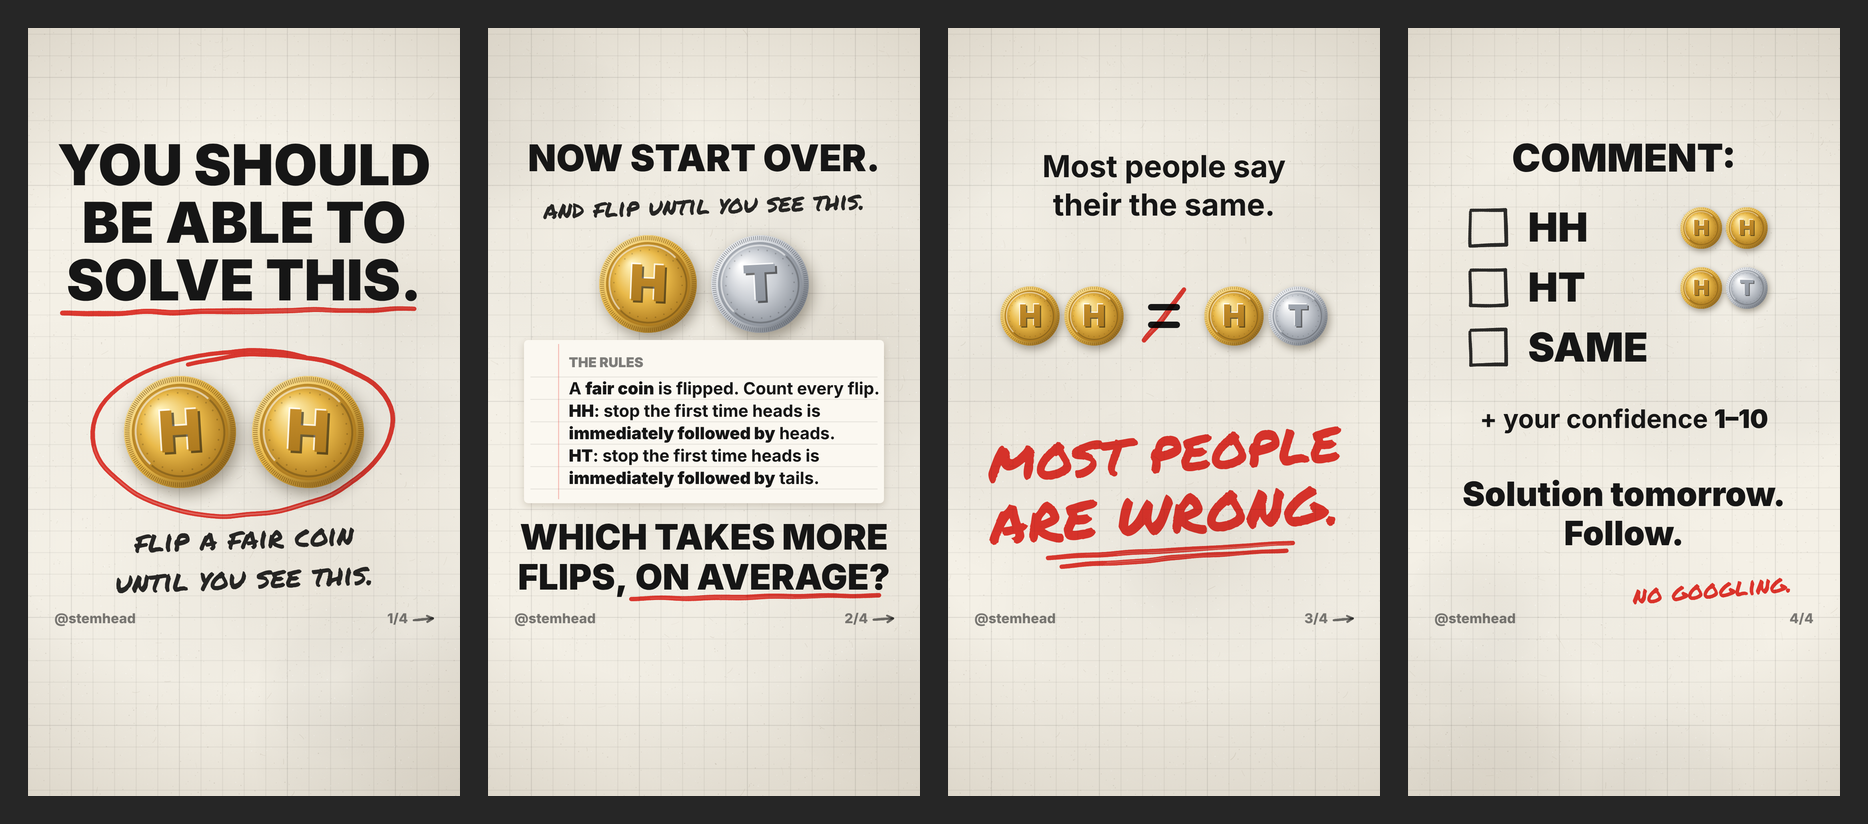
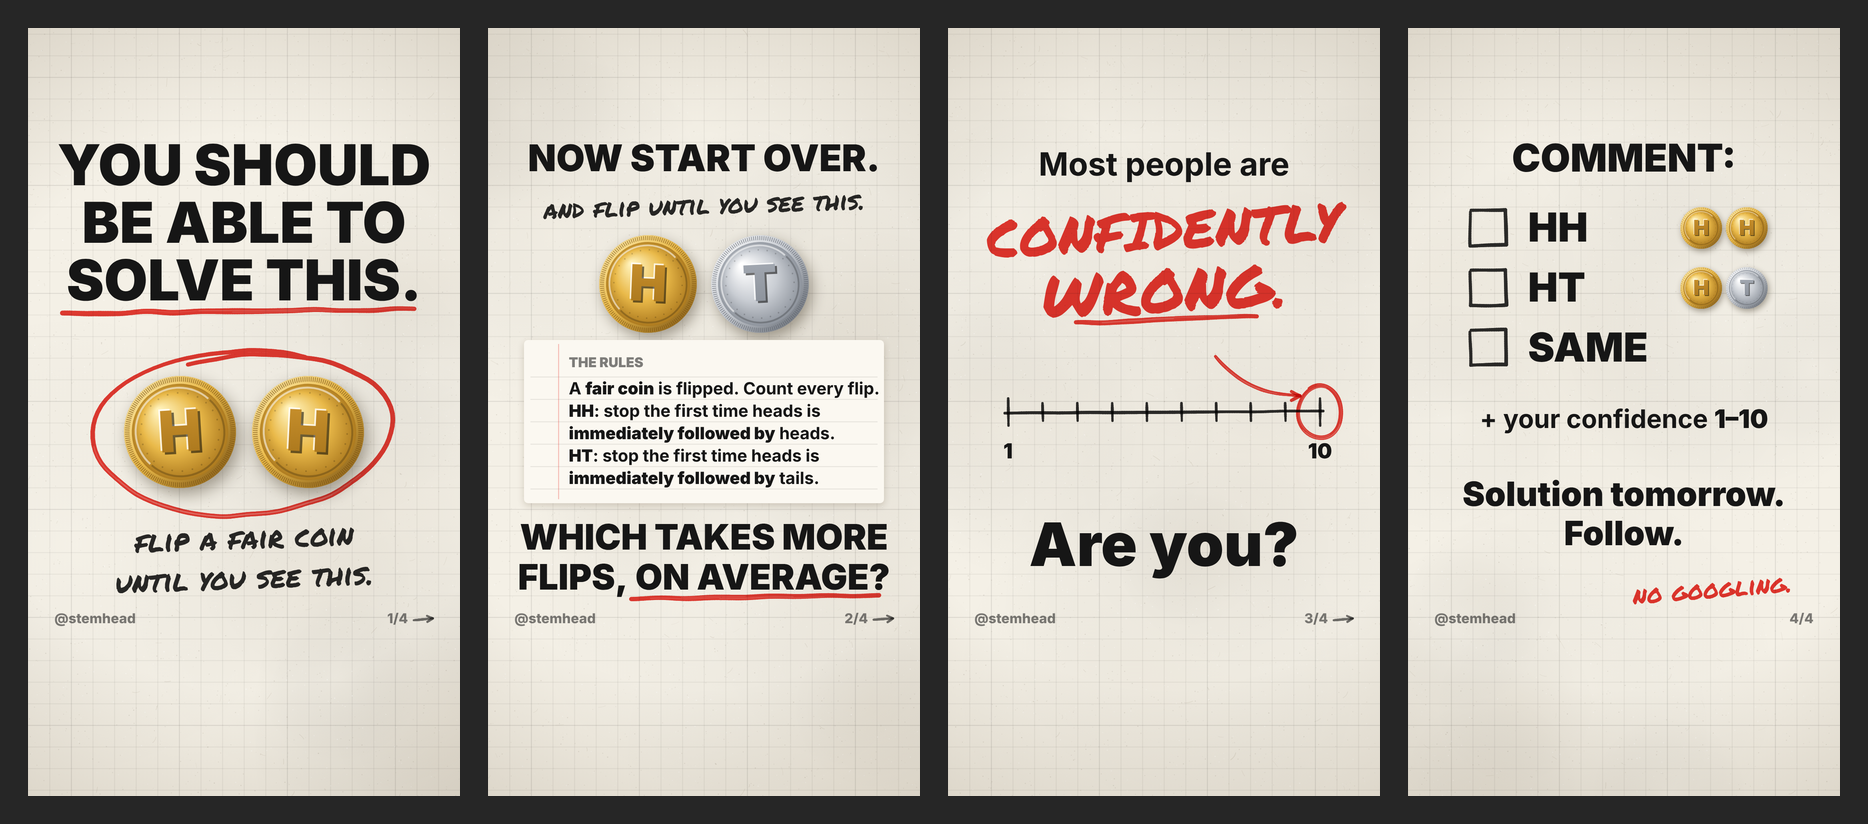
Carousels: slide 3 no longer leaks the answer
"Most people say their the same / MOST PEOPLE ARE WRONG" (and the
crossed-out 99% in c003) ruled an option out. Slide 3 of c001 and c003 is
now "Most people are CONFIDENTLY WRONG. Are you?" over a 1-10 confidence
scale circled at 10 (new confidenceScale helper). The deliberate typo lived
in the leaking sentence and is dropped. render_panels.py now fails fast
when panels.js throws.

Claude-Session: https://claude.ai/code/session_01KYac268TKxLTPpFwzuGvSF

Changed region(s): [[0.5278, 0.182, 0.7452, 0.4248], [0.5278, 0.4551, 0.7141, 0.6978]]

diff --git a/carousels/c001-coin-flips/panels.js b/carousels/c001-coin-flips/panels.js
@@ -47,17 +47,14 @@ function p2(){
 }
 
 function p3(){
-  ink('Most people say', CX, 350, {size:76, weight:700});
-  ink('their the same.', CX, 446, {size:76, weight:700});
-  // HH = HT, with the equals sign struck out
-  const y = 720, r = 74;
-  coin(205, y, r, 'H'); coin(365, y, r, 'H');
-  coin(715, y, r, 'H'); coin(875, y, r, 'T');
-  ctx.save(); ctx.fillStyle = PAPER.ink; rr(500, y-30, 80, 16, 8); ctx.fill(); rr(500, y+14, 80, 16, 8); ctx.fill(); ctx.restore();
-  markerLine(492, y+62, 590, y-66, {width:14});
-  markerText('MOST PEOPLE', CX, 1060, {size:124, rot:-0.06});
-  markerText('ARE WRONG.', CX, 1210, {size:136, rot:-0.06});
-  markerUnderline(260, 850, 1320, {width:13, slope:-34, double:true});
+  // never name an answer here: anything that rules one out leaks the solution
+  ink('Most people are', CX, 345, {size:80, weight:700});
+  markerText('CONFIDENTLY', CX, 500, {size:132, rot:-0.05});
+  markerText('WRONG.', CX, 650, {size:150, rot:-0.05});
+  markerUnderline(330, 760, 735, {width:13, slope:-14});
+  const xs = confidenceScale(150, 930, 960);
+  markerArrow(xs[9] - 260, 820, xs[9] - 50, 920, {bend:-0.25, width:9, head:24});
+  const w = ink('Are you?', CX, 1300, {size:150, weight:900});
 }
 
 function p4(){
@@ -83,17 +80,17 @@ window.PANELS = {
     hashtags: ['#math', '#probability', '#puzzle', '#brainteaser', '#sciencetok', '#youshouldbeabletosolvethis'],
     pinned: 'Solution tomorrow. No googling. Drop HH, HT or SAME and your confidence 1–10.',
     sound_note: 'Trending sound at low volume, no lyrics over the first 3 s (the hook is read, not heard).',
-    typos: [{panel: 3, text: 'their the'}],     // deliberate: "Most people say their the same."
+    typos: [],
     spell_ok: ['googling'],
     required_phrases: ['fair coin', 'immediately followed by', 'on average', 'start over', 'count every flip'],
     sim_on_panels: [],
     allow_blue: false,
-    extra: [["note on the typo", "\"their the same\" on panel 3 is deliberate. Do not correct it in replies; let the correction crowd comment."], ["truth check", "The answer (HH 6 flips, HT 4) is verified by sim.py next to panels.js and by carousels/c002-coin-flips-answer/sim.py."]],
+    extra: [["truth check", "The answer (HH 6 flips, HT 4) is verified by sim.py next to panels.js and by carousels/c002-coin-flips-answer/sim.py."]],
     review: {
       thumbnail: 'viewed out/thumb.png at 135x240: the 3-line headline reads clearly, the two gold H coins read as coins, the marker line is secondary; nothing competes.',
-      accent: 'red only on the headline underline, the target circle, the struck-out equals sign, MOST PEOPLE ARE WRONG and no googling. No blue.',
+      accent: 'red only on the headline underline, the target circle, CONFIDENTLY WRONG + its underline, the circle and arrow on 10 of the confidence scale, no googling. No blue.',
       statement: 'p1 + p2 card: fair coin, count every flip, stop the first time heads is immediately followed by heads (HH) / tails (HT), start over between games, on average. One reading only.',
-      flow: 'p1 half a puzzle (HH) -> p2 the other half + the question -> p3 the reversal without the answer -> p4 one-word comment + promise. Every panel but the last ends unresolved; counter carries a swipe arrow.',
+      flow: 'p1 half a puzzle (HH) -> p2 the other half + the question -> p3 "most people are confidently wrong.. are you?" with a 1-10 scale circled at 10 (names no answer, rules none out) -> p4 one-word comment + promise. Every panel but the last ends unresolved; counter carries a swipe arrow.',
       overlays: 'helpers.js refactor: overlays for 001-005 rendered at every 15th frame before and after (418 frames, same fake timeline.json since Kokoro is not installed here): 0 pixels differ.',
     },
   },

diff --git a/carousels/c003-base-rate/panels.js b/carousels/c003-base-rate/panels.js
@@ -45,13 +45,14 @@ function p2(){
 }
 
 function p3(){
-  ink('Most people say', CX, 350, {size:76, weight:700});
-  ink('its 99%.', CX, 446, {size:76, weight:700});
-  ink('99%', CX, 740, {size:230, weight:900});
-  markerCross(CX, 730, 190, {width:16});
-  markerText('MOST PEOPLE', CX, 1060, {size:124, rot:-0.06});
-  markerText('ARE WRONG.', CX, 1210, {size:136, rot:-0.06});
-  markerUnderline(260, 850, 1320, {width:13, slope:-34, double:true});
+  // never name an answer here: anything that rules one out leaks the solution
+  ink('Most people are', CX, 345, {size:80, weight:700});
+  markerText('CONFIDENTLY', CX, 500, {size:132, rot:-0.05});
+  markerText('WRONG.', CX, 650, {size:150, rot:-0.05});
+  markerUnderline(330, 760, 735, {width:13, slope:-14});
+  const xs = confidenceScale(150, 930, 960);
+  markerArrow(xs[9] - 260, 820, xs[9] - 50, 920, {bend:-0.25, width:9, head:24});
+  const w = ink('Are you?', CX, 1300, {size:150, weight:900});
 }
 
 function p4(){
@@ -75,17 +76,17 @@ window.PANELS = {
     hashtags: ['#math', '#probability', '#puzzle', '#brainteaser', '#sciencetok', '#youshouldbeabletosolvethis'],
     pinned: 'Solution tomorrow. No googling. Drop 99%, 50% or 1% and your confidence 1–10.',
     sound_note: 'Trending sound at low volume, no lyrics over the first 3 s.',
-    typos: [{panel: 3, text: 'its 9'}],        // deliberate: "Most people say its 99%."
+    typos: [],
     spell_ok: ['googling'],
     required_phrases: ['1 in 10,000', '99% accurate', '99% of people who have it', "99% of people who don't", 'tested at random', 'test positive'],
     sim_on_panels: [],
     allow_blue: false,
-    extra: [["note on the typo", "\"its 99%\" on panel 3 is deliberate (it's). Do not correct it in replies."], ["truth check", "Answer: about 1% (0.98%). Per 1,000,000 people tested: 100 have it, 99 test positive; 999,900 don't, 9,999 of them test positive anyway. 99 / (99 + 9,999) = 0.98%. sim.py simulates 100,000,000 people."]],
+    extra: [["truth check", "Answer: about 1% (0.98%). Per 1,000,000 people tested: 100 have it, 99 test positive; 999,900 don't, 9,999 of them test positive anyway. 99 / (99 + 9,999) = 0.98%. sim.py simulates 100,000,000 people."]],
     review: {
       thumbnail: 'viewed out/thumb.png at 135x240: headline reads, the positive test cassette reads as a test.',
-      accent: 'red on underline, circles, the arrow, 1 has it, the cross over 99%, MOST PEOPLE ARE WRONG, no googling. No blue.',
+      accent: 'red on underline, circles, the arrow, 1 has it, CONFIDENTLY WRONG + its underline, the circle and arrow on 10 of the confidence scale, no googling. No blue.',
       statement: '99% accurate is defined on the panel as 99% sensitivity and 99% specificity; tested at random (no symptoms) fixes the prior. Answer ~0.98% (sim.py).',
-      flow: 'same arc as c001: hook -> setup + question -> reversal -> comment + promise.',
+      flow: 'same arc as c001: hook -> setup + question -> "confidently wrong.. are you?" (names no answer) -> comment + promise.',
       overlays: 'helpers.js refactor: overlays for 001-005 rendered at every 15th frame before and after (418 frames, same fake timeline.json since Kokoro is not installed here): 0 pixels differ.',
     },
   },

diff --git a/pipeline/overlays/helpers.js b/pipeline/overlays/helpers.js
@@ -196,3 +196,12 @@ function dotGrid(x0,y0,cols,rows,step,{r=1.8,color='rgba(22,22,22,0.55)',mark=[]
   ctx.fillStyle=markColor; for(const i of mark){ const [x,y]=pos(i); ctx.beginPath(); ctx.arc(x,y,markR||r*2.2,0,Math.PI*2); ctx.fill(); }
   ctx.restore(); return pos;
 }
+// A hand-drawn 1..n ruler (confidence scale): marker baseline, ticks, end labels, `mark` circled in red.
+function confidenceScale(x0,x1,y,{n=10,mark=n,labels=true}={}){
+  markerLine(x0-8,y+2,x1+8,y-2,{color:PAPER.ink,width:8,wobble:1.2,streaks:false});
+  const xs=[]; for(let k=0;k<n;k++){ const x=lerp(x0,x1,k/(n-1)); xs.push(x); const h=(k===0||k===n-1)?34:22;
+    markerLine(x,y-h,x+1,y+h,{color:PAPER.ink,width:7,wobble:0.6,streaks:false}); }
+  if(labels){ ink('1',x0,y+100,{size:52,weight:900}); ink(String(n),x1,y+100,{size:52,weight:900}); }
+  if(mark) markerCircle(xs[mark-1],y,52,64,{width:11});
+  return xs;
+}

diff --git a/pipeline/carousel/render_panels.py b/pipeline/carousel/render_panels.py
@@ -64,7 +64,10 @@ def render(pd, out, sim, only):
         page = br.new_page(viewport={"width": W, "height": H}, device_scale_factor=1)
         page.goto("file://" + html); page.wait_for_load_state("load")
         page.evaluate("s => { window.SIM = s; }", sim)
+        errors = []; page.on("pageerror", lambda e: errors.append(str(e)))
         page.add_script_tag(path=os.path.join(pd, "panels.js"))
+        if errors or not page.evaluate("() => !!(window.PANELS && window.PANELS.draw)"):
+            sys.exit(f"panels.js did not load: {errors or 'window.PANELS.draw missing'}")
         page.evaluate("""() => Promise.all([document.fonts.load('900 80px Inter'), document.fonts.load('800 80px Inter'),
                          document.fonts.load('700 40px Inter'), document.fonts.load('80px "Permanent Marker"')])""")
         ok = page.evaluate("() => document.fonts.check('80px \"Permanent Marker\"') && document.fonts.check('900 80px Inter')")

diff --git a/AGENTS.md b/AGENTS.md
@@ -368,7 +368,8 @@ unambiguous), `sim_on_panels`, `allow_blue` (answer posts only), `review`
 - `coin(cx,cy,r,'H'|'T')` gold heads / silver tails, milled rim, raised
   ring, embossed letter, drop shadow; `coinRow(faces,cx,cy,{r,gap})`
   returns centres for circling a run. `testStrip`, `dotGrid` (population
-  of N dots with marked ones).
+  of N dots with marked ones), `confidenceScale(x0,x1,y)` (1-10 ruler,
+  10 circled).
 - panels.html adds `problem(fn)` / `withKind(kind, fn)` to tag text, and
   the corner tags (handle + `i/n` + swipe arrow, inside the safe area).
 
@@ -408,6 +409,13 @@ checks.txt; render twice and compare after touching helpers.
   brief's pinned comment "flip a coin 20 times and count" would hand people
   a refutation: in one long run HH and HT occur equally often; only the
   wait for the first one differs. Pinned comment now says replay each game.
+- Slide 3 must never name an answer. The brief's "Most people say their
+  the same. MOST PEOPLE ARE WRONG." (and "its 99%" + a crossed-out 99%)
+  ruled one option out and halved the puzzle. It is now "Most people are
+  CONFIDENTLY WRONG. Are you?" over a 1-10 scale circled at 10
+  (`confidenceScale`), which also sets up the confidence ask on slide 4.
+  The deliberate typo lived in the leaking sentence, so c001/c003 have no
+  typo now (`meta.typos: []`); if one comes back it must not touch an answer.
 - Base-rate question: define "99 % accurate" as 99 % sensitivity and 99 %
   specificity, and say "tested at random" so the prior is the 1 in 10,000.
 - Permanent Marker has no lowercase (it renders small caps); fine for
